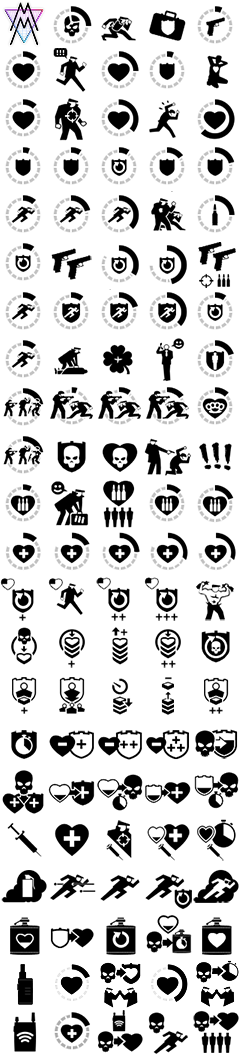
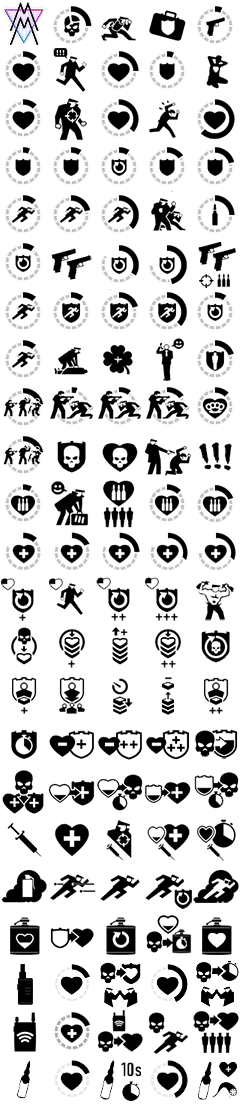
updated perk decks (leech)

diff --git a/src/data/abilities/perks.ts b/src/data/abilities/perks.ts
@@ -22,7 +22,8 @@ export type PerkDeckList =
 	'Sicario' |
 	'Stoic' |
 	'Tag Team' |
-	'Hacker'
+	'Hacker' |
+	'Leech'
 
 export interface PerkData {
 	name: PerkDeckList;
@@ -1561,6 +1562,46 @@ const perkDecks: Record<PerkDeckList, PerkData> = {
 		],
 		source: source['Base Game'],
 		throwable: 'Pocket ECM'
+	},
+	'Leech': {
+		name: 'Leech',
+		description: [
+			'You are a selective parasite in combat, draining your foes to strengthen yourself and your teammates. Still, you\'re not just some brick shithouse that can take a beating. You can dish out the pain and use that aggression to bolster your team.'
+		],
+		cards: [
+			{
+				name: 'Momentum',
+				description: [
+					'Unlocks and equips the Leech Ampule.\tChanging to another perk deck will make the Leech Ampule unavailable again. The Leech Ampule replaces your current throwable, is equipped in your throwable slot and can be switched out if desired.\tWhile in game you can use throwable key to activate the Leech Ampule.\tActivating the Leech Ampule will restore 40% health and disables your armor for the duration of the Leech Ampule.\tWhile the Leech Ampule is active your health is divided into segments of 20% and damage taken from enemies removes one segment. Killing 2 enemies will restore one segment of your health and block damage for 1 second. Anytime you take damage your teammates are healed for 5% of their health.\tThe Leech Ampule lasts 6 seconds with a 30 seconds cooldown.'
+				]
+			},
+			{
+				name: 'Indomitable',
+				description: [
+					'Your maximum health is increased by 20%.\tWhile the Leech Ampule is active you cannot go into bleedout, but being out of health will slow you down by 80%.'
+				]
+			},
+			{
+				name: 'Stalwart',
+				description: [
+					'The Leech Ampule duration is increased to 10 seconds.\tKilling an enemy reduces the cooldown of the Leech Ampule by 1 second(s).\tTaking damage now heals teammates by 10% of their health.'
+				]
+			},
+			{
+				name: 'Built Different',
+				description: [
+					'Your maximum health is increased by 20%.'
+				]
+			},
+			{
+				name: 'Symbiosis',
+				description: [
+					'You can now activate Leech Ampule while downed, temporarily reviving you until the end of the Leech Ampule. If you successfully revive a teammate or use a doctor bag before the Leech Ampule ends, you may stay alive if you are above 0 health.\tWhile the Leech Ampule is active your health is now divided into segments of 10%.\tYour maximum health is increased by 60%.'
+				]
+			}
+		],
+		source: source['Base Game'],
+		throwable: 'Leech Ampule'
 	}
 }
 

diff --git a/src/data/weapons/throwables.ts b/src/data/weapons/throwables.ts
@@ -1,3 +1,4 @@
+import { PerkDeckList } from 'data/abilities/perks'
 import content, { ContentData } from 'data/source/downloadableContent'
 import source, { SourceData } from 'data/source/miscSources'
 
@@ -10,7 +11,7 @@ export interface ThrowableData {
 	reputation: number;
 	source: ContentData | SourceData;
 	type: ['Projectile' | 'Grenade' | 'Consumable', string];
-	perkDeck?: string;
+	perkDeck?: PerkDeckList;
 	stats: Projectile | Grenade | Consumable;
 }
 
@@ -378,6 +379,21 @@ const throwables: Record<string, ThrowableData> = {
 		source: content['Scarface Character Pack'],
 		type: ['Consumable', 'Hypodermic Stim'],
 		perkDeck: 'Kingpin',
+		stats: {
+			capacity: 1,
+			cooldown: 30
+		}
+	},
+	'Leech Ampule': {
+		name: 'Leech Ampule',
+		description: [
+			'Activating the Leech ability requires you to break a small glass ampule under your nose and take a deep breath. You\'re not quite sure what\'s in it, but it makes the world come into focus, and causes your adrenaline to spike. One thing is certain; it sure as shit isn\'t smelling salts.'
+		],
+		image: 'copr_ability',
+		reputation: 0,
+		source: source['Base Game'],
+		type: ['Consumable', 'Ampule'],
+		perkDeck: 'Leech',
 		stats: {
 			capacity: 1,
 			cooldown: 30

diff --git a/src/pages/PerkDeck/PerkDeck.tsx b/src/pages/PerkDeck/PerkDeck.tsx
@@ -4,7 +4,8 @@ import { InfoContainer, InfoDescription, InfoTitle } from 'components/Info/Info-
 import { ItemContainer } from 'components/Item-Elements'
 import perkDecks, { PerkCard } from 'data/abilities/perks'
 import { useAppSelector } from 'hooks/reduxHooks'
-import { FC, createRef, useEffect, useRef, useState } from 'react'
+import useMountEffect from 'hooks/useMountEffect'
+import { FC, createRef, useRef, useState } from 'react'
 
 import Perk from './Perks'
 
@@ -30,10 +31,10 @@ const PerkDeck: FC = () => {
 
 	const [selectedPerk, setSelectedPerk] = useState(equippedPerk)
 
-	useEffect(() => {
+	useMountEffect(() => {
 		const currentEquippedIndex = Object.keys(perkDecks).indexOf(equippedPerk.name)
 		scrollToPerk(currentEquippedIndex, 'auto')
-	}, [])
+	})
 
 	return (
 		<Container rows='4rem 2rem 7fr 4rem' areas='"title title" "horizontalbar ." "items info" "items back"' title='Perk Deck'>

diff --git a/src/pages/Home/Tabs/Tabs-Elements.ts b/src/pages/Home/Tabs/Tabs-Elements.ts
@@ -1,3 +1,4 @@
+import { CardIconBase } from 'pages/PerkDeck/Perks/Perk-Elements'
 import styled from 'styled-components'
 import { dim } from 'utils/colours'
 import corner from 'utils/corner'
@@ -21,16 +22,7 @@ export const Image = styled.img<ImageProps>`
 	${props => props.leftFacing && 'transform: scaleX(-1)'};
 `
 
-interface PerkDeckImageProps {
-	x: number;
-	y: number;
-}
-
-export const PerkDeckImage = styled.div<PerkDeckImageProps>`
-	background-position-x: calc((${props => props.x}% / 192) * 100) !important;
-	background-position-y: calc((${props => props.y}% / 1008) * 100) !important;
-	background: url('/images/perks/perks.png') 0 0 no-repeat;
-	background-size: 500% 2200%;
+export const PerkDeckImage = styled(CardIconBase)`
 	height: calc(100% - 32px);
 	aspect-ratio: 1;
 	max-width: 100%;

diff --git a/src/pages/PerkDeck/Perks/Perk-Elements.ts b/src/pages/PerkDeck/Perks/Perk-Elements.ts
@@ -40,16 +40,19 @@ export const CardBackground = styled.img<CardBackgroundProps>`
 	opacity: ${props => props.selected ? 1 : 0.5};
 `
 
-interface CardIconProps {
+export interface CardIconBaseProps {
 	x: number;
 	y: number;
 }
 
-export const CardIcon = styled.div<CardIconProps>`
+export const CardIconBase = styled.div<CardIconBaseProps>`
 	background-position-x: calc((${props => props.x}% / 192) * 100) !important;
-	background-position-y: calc((${props => props.y}% / 1008) * 100) !important;
+	background-position-y: calc((${props => props.y}% / 1056) * 100) !important;
 	background: url('/images/perks/perks.png') 0 0 no-repeat;
-	background-size: 500% 2200%;
+	background-size: 500% 2300%;
+`
+
+export const CardIcon = styled(CardIconBase)`
 	height: 48px;
 	width: 48px;
 	top: 24px;
